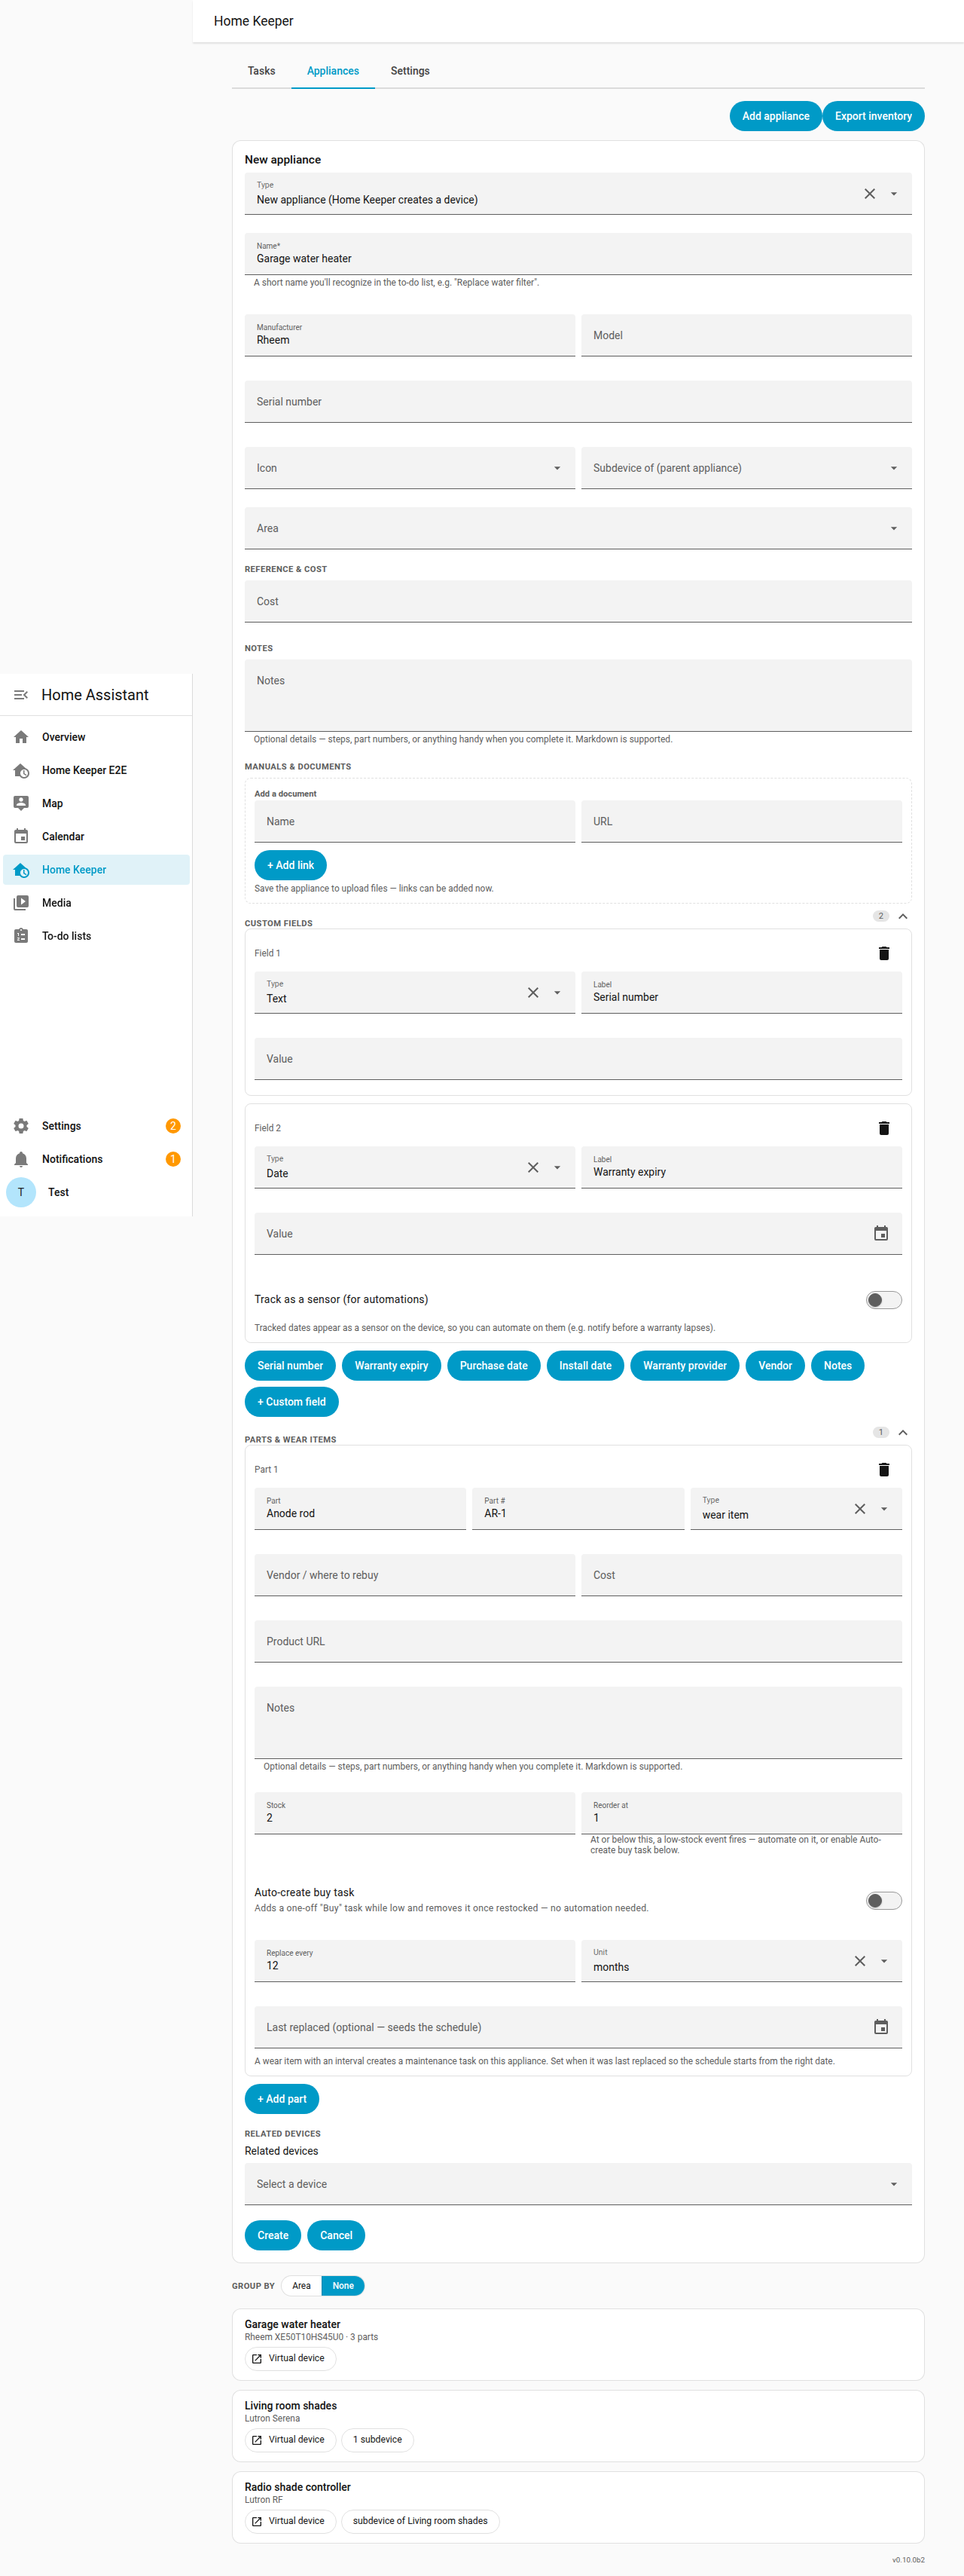
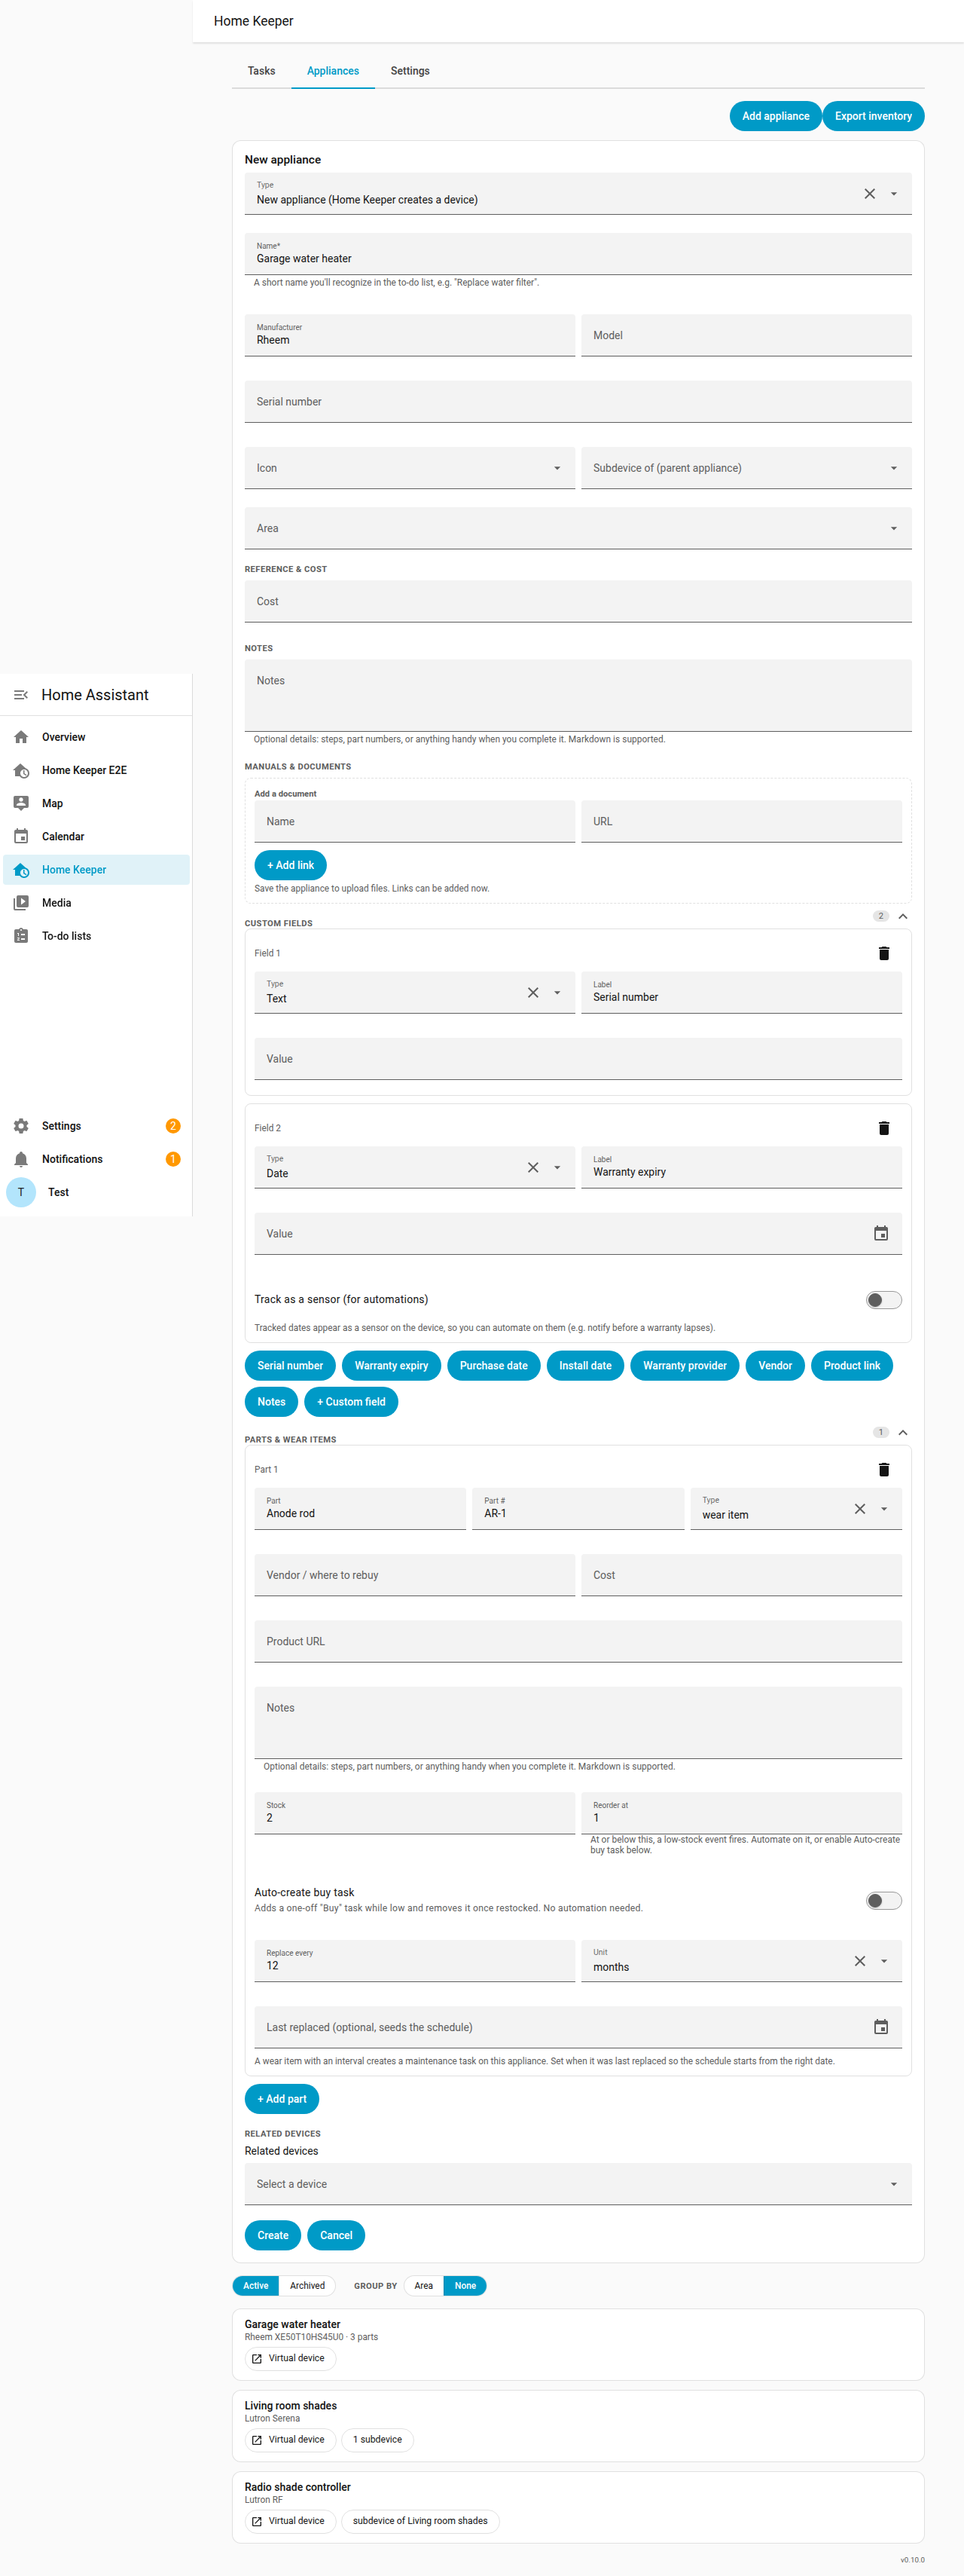
Add a "Product link" quick-add custom field, cut 0.10.0 stable (#175)
* Add a "Product link" quick-add custom field, cut 0.10.0 stable

Add a one-click seed to the appliance Custom fields editor for a
link-typed "Product link" field (next to Vendor), so the page an
appliance was bought from can be recorded and rendered as a clickable
link, same as any other link metadata entry. Localized across all 16
supported locales. (Fixes #160)

Cuts the 0.10.0 stable release, consolidating the 0.10.0b1/b2/b3 beta
changelog entries into one stable section per the project's release
process.

Claude-Session: https://claude.ai/code/session_013yWtccbxACkQhBsdSoYRKF

* Update Custom fields screenshot with the Product link seed button

Claude-Session: https://claude.ai/code/session_013yWtccbxACkQhBsdSoYRKF

---------

diff --git a/custom_components/home_keeper/frontend/src/panel.ts b/custom_components/home_keeper/frontend/src/panel.ts
@@ -5298,6 +5298,7 @@ export class HomeKeeperPanel extends HTMLElement {
       { label: t('meta.seed.install_date'), type: 'date' },
       { label: t('meta.seed.warranty_provider'), type: 'text' },
       { label: t('meta.seed.vendor'), type: 'text' },
+      { label: t('meta.seed.product_link'), type: 'link' },
       { label: t('meta.seed.notes'), type: 'text' },
     ];
     const addEntry = (entry: MetadataEntry): void => {

diff --git a/custom_components/home_keeper/const.py b/custom_components/home_keeper/const.py
@@ -8,7 +8,7 @@ PLATFORMS = ["todo", "calendar", "button", "sensor", "binary_sensor", "number"]
 # Frontend panel.
 # PANEL_VERSION is the single source of truth that release.yml validates against
 # manifest.json's "version" (mirrors Pawsistant's CARD_VERSION check).
-PANEL_VERSION = "0.10.0b3"
+PANEL_VERSION = "0.10.0"
 PANEL_URL_PATH = "home-keeper"  # sidebar route -> /home-keeper
 PANEL_STATIC_URL = "/home_keeper_panel"  # static path that serves the JS bundle
 PANEL_JS_FILENAME = "home-keeper-panel.js"

diff --git a/CHANGELOG.md b/CHANGELOG.md
@@ -6,7 +6,7 @@ All notable changes to Home Keeper are documented here. The format follows
 [Keep a Changelog](https://keepachangelog.com/) and the project uses semantic
 versioning, with PEP 440 pre-release suffixes (`bN`/`aN`/`rcN`) for betas.
 
-## [0.10.0b3]
+## [0.10.0] - 2026-08-02
 
 ### Added
 
@@ -29,9 +29,62 @@ versioning, with PEP 440 pre-release suffixes (`bN`/`aN`/`rcN`) for betas.
   stores the file. Previously a large upload gave no feedback at all. The button
   stayed idle and nothing moved until it finished. The upload and **Save** buttons
   are disabled while an upload is in flight, so a save can no longer race it.
+- **Notes render as Markdown.** Every "Notes" field (on a task, on an appliance, on a
+  part, and on each logged completion) now renders as GitHub-flavoured Markdown, so a
+  note can carry a numbered procedure, a part number in `code`, a link to the manual, a
+  small table of settings, or a `>` callout instead of one unformatted run of text.
+  (Previously the task detail page didn't even preserve line breaks.) Rendering and
+  sanitizing are done by Home Assistant's own `ha-markdown` component, so notes match
+  your theme and no Markdown parser is bundled into the panel. (Fixes #163)
+- **Inline note editor with a live preview.** A task's or an appliance's Notes card has
+  an **Edit note** button that opens a full-width editor previewing the formatting as
+  you type; the task, appliance, part, and completion edit forms gained the same live
+  preview. The preview appears only once the text actually contains Markdown.
+  (The inline editor previously existed only for synced problem-sensor tasks.)
+- **Appliances have a Notes field.** A first-class free-text field for prose about the
+  appliance ("the shut-off is the red lever above the tank"), separate from the
+  label/value custom metadata fields, and settable via `home_keeper.add_asset` /
+  `home_keeper.update_asset`.
+- **Part notes are editable and visible.** Parts have always stored notes, but the panel
+  offered no way to enter them and never showed them. They now appear in the part editor
+  and render under the part in an appliance's Parts list.
+- **Quick-add a "Product link" custom field.** A one-click seed (next to the existing
+  Vendor field, in the appliance's Custom fields editor) fills in a `link`-typed
+  custom field for the page you bought an appliance from. Separate from Vendor
+  (which is free text), it renders as a clickable link on the appliance's detail
+  page, same as any other `link` metadata entry. (Fixes #160)
 
 ### Fixed
 
+<!-- vale ai-tells.OverusedVocabulary = NO -->
+- **Notification action buttons and text were hardcoded in English.** The "Mark
+  done"/"Snooze"/"Skip"/"Open" action buttons on actionable mobile notifications, and
+  the notification title/body text (overdue/due-soon phrasing, the digest summary, the
+  "All caught up" close-out), are now localized to `hass.config.language` across all
+  16 supported locales, with correct CLDR plural forms (via the new `Babel`
+  dependency) for counts like "N day(s) overdue" or "N task(s) due". (Fixes #150)
+<!-- vale ai-tells.OverusedVocabulary = YES -->
+- **Several other user-facing strings weren't localized.** A follow-up audit of the
+  whole integration for hardcoded English text found several gaps: the websocket
+  API's and document-upload views' error messages (e.g. "Unknown task_id", "Home
+  Keeper is not loaded"), the problem-sensor sync's completion explanation, the
+  Battery Notes companion suggestion's description, the inventory CSV export's
+  column headers, and a few panel/dashboard-card runtime strings ("No tasks yet.",
+  the load-failed banner, the "+N more" truncation caption, the quick-complete
+  confirm dialog, and the default name for an unnamed saved profile/notification).
+  All are now localized across the 16 supported locales, with two new drift-guard
+  tests to keep future websocket/upload error messages from landing unlocalized
+  again.
+- **Uploaded manuals and receipts couldn't be opened on mobile, and looked like dead
+  text on desktop.** On an appliance's page, tapping a document you'd uploaded (or a
+  part's attached file) did nothing at all in the Home Assistant companion app: the
+  link was built as a script-driven click that fetched a download URL first, and the
+  app's browser blocks a new tab opened that late. They're now ordinary links whose
+  URL is ready before you tap, so they open on mobile, react to hover with a pointer
+  and underline on desktop, and support long-press "open in new tab", middle-click and
+  keyboard activation like any other link. Document rows and the part-attachment
+  paperclip also got a full-size touch target, so they're no longer a pixel hunt on a
+  phone. (Fixes #164)
 - **Deleting a task or appliance now asks for confirmation.** The Delete button on a
   task/appliance detail page previously looked identical to Edit and deleted
   immediately on click, with no way to recover the appliance's history (documents,
@@ -66,64 +119,6 @@ versioning, with PEP 440 pre-release suffixes (`bN`/`aN`/`rcN`) for betas.
   so the browser never sees a 413. That case is now recognized (the body stopped
   short) and reported as a possible proxy limit, with a link to the docs, instead
   of a bare "Upload failed (0)".
-
-## [0.10.0b2]
-
-### Added
-
-- **Notes render as Markdown.** Every "Notes" field — on a task, on an appliance, on a
-  part, and on each logged completion — now renders as GitHub-flavoured Markdown, so a
-  note can carry a numbered procedure, a part number in `code`, a link to the manual, a
-  small table of settings, or a `>` callout instead of one unformatted run of text.
-  (Previously the task detail page didn't even preserve line breaks.) Rendering and
-  sanitizing are done by Home Assistant's own `ha-markdown` component, so notes match
-  your theme and no Markdown parser is bundled into the panel. (Fixes #163)
-- **Inline note editor with a live preview.** A task's or an appliance's Notes card has
-  an **Edit note** button that opens a full-width editor previewing the formatting as
-  you type; the task, appliance, part, and completion edit forms gained the same live
-  preview. The preview appears only once the text actually contains Markdown.
-  (The inline editor previously existed only for synced problem-sensor tasks.)
-- **Appliances have a Notes field.** A first-class free-text field for prose about the
-  appliance ("the shut-off is the red lever above the tank"), separate from the
-  label/value custom metadata fields, and settable via `home_keeper.add_asset` /
-  `home_keeper.update_asset`.
-- **Part notes are editable and visible.** Parts have always stored notes, but the panel
-  offered no way to enter them and never showed them. They now appear in the part editor
-  and render under the part in an appliance's Parts list.
-
-### Fixed
-
-- **Uploaded manuals and receipts couldn't be opened on mobile, and looked like dead
-  text on desktop.** On an appliance's page, tapping a document you'd uploaded (or a
-  part's attached file) did nothing at all in the Home Assistant companion app: the
-  link was built as a script-driven click that fetched a download URL first, and the
-  app's browser blocks a new tab opened that late. They're now ordinary links whose
-  URL is ready before you tap — so they open on mobile, react to hover with a pointer
-  and underline on desktop, and support long-press "open in new tab", middle-click and
-  keyboard activation like any other link. Document rows and the part-attachment
-  paperclip also got a full-size touch target, so they're no longer a pixel hunt on a
-  phone. (Fixes #164)
-
-## [0.10.0b1]
-
-### Fixed
-
-- **Notification action buttons and text were hardcoded in English.** The "Mark
-  done"/"Snooze"/"Skip"/"Open" action buttons on actionable mobile notifications, and
-  the notification title/body text (overdue/due-soon phrasing, the digest summary, the
-  "All caught up" close-out), are now localized to `hass.config.language` across all
-  16 supported locales, with correct CLDR plural forms (via the new `Babel`
-  dependency) for counts like "N day(s) overdue" or "N task(s) due". (Fixes #150)
-- **Several other user-facing strings weren't localized.** A follow-up audit of the
-  whole integration for hardcoded English text found: the websocket API's and
-  document-upload views' error messages (e.g. "Unknown task_id", "Home Keeper is
-  not loaded"); the problem-sensor sync's completion explanation; the Battery
-  Notes companion suggestion's description; the inventory CSV export's column
-  headers; and a few panel/dashboard-card runtime strings ("No tasks yet.", the
-  load-failed banner, the "+N more" truncation caption, the quick-complete confirm
-  dialog, and the default name for an unnamed saved profile/notification). All are
-  now localized across the 16 supported locales, with two new drift-guard tests to
-  keep future websocket/upload error messages from shipping unlocalized again.
 
 ## [0.9.0] - 2026-07-23
 

diff --git a/README.md b/README.md
@@ -563,8 +563,9 @@ Assistant (manufacturer/model, an mdi icon, a manual link, replacement cost), pl
 free-form **Notes** field for prose about the appliance, which renders as
 [Markdown](#notes-are-markdown). Beyond that you add **custom fields**, each a label
 with a value typed as
-**text**, **link**, or **date** (seeded with common ones like serial number, warranty
-expiry, purchase/install dates). Tick **track** on a date and it becomes a real `date`
+**text**, **link**, or **date** (seeded with common ones like serial number, vendor,
+product link, warranty expiry, purchase/install dates). Tick **track** on a date and
+it becomes a real `date`
 **sensor** on the device page, so it's automatable natively (e.g. *"warranty expiring
 in 30 days → notify me"*). Untracked dates stay display-only.
 
